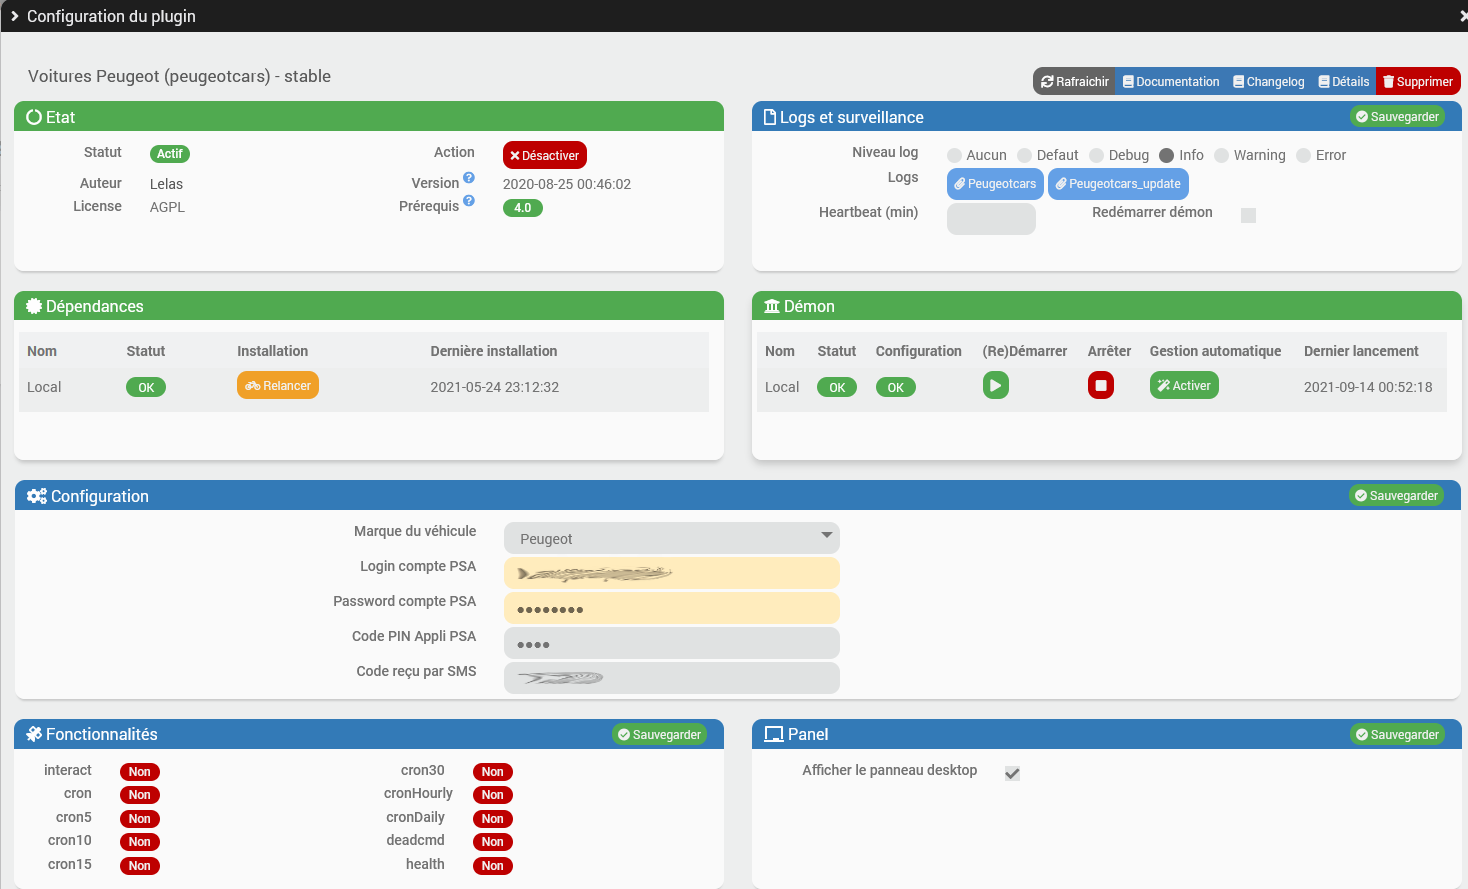
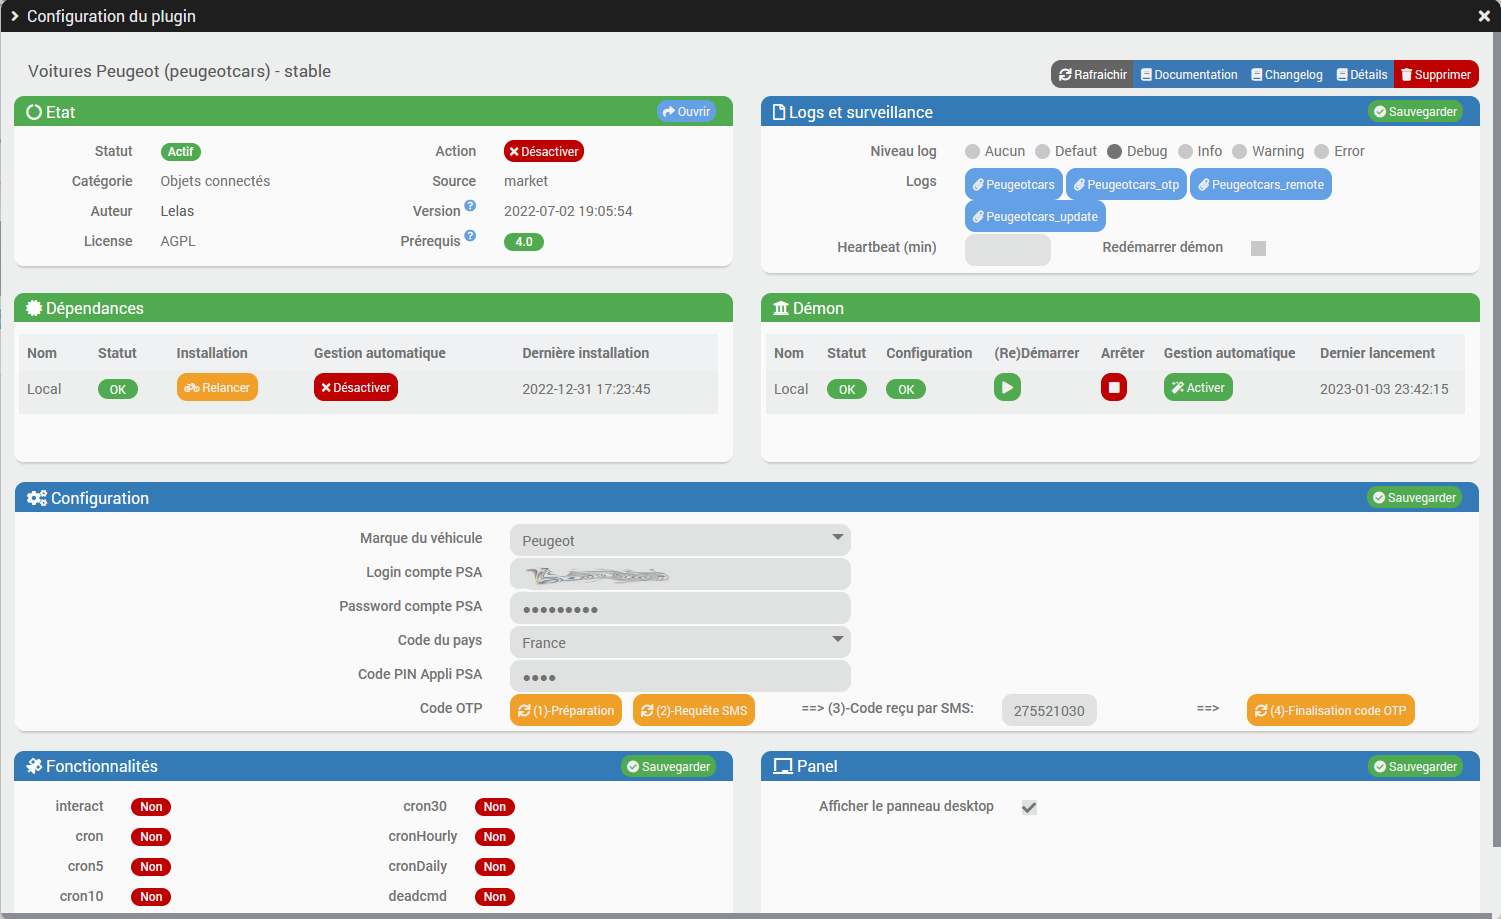
Mise à jour driver psa_car_controller (V2022-12)

Changed region(s): [[0.0, 0.0, 1.0, 1.0], [0.0, 0.0, 0.1533, 0.0304]]

diff --git a/desktop/js/panel.js b/desktop/js/panel.js
@@ -686,7 +686,7 @@ function trips_stats(stat_data) {
           formatter: function () {
               return this.points.reduce(function (s, point) {
                   var hdr  = '<br/><span style="color:'+ point.series.color +';font-size:14px"><b>' + point.series.name + ': </b></span>';
-                  var data = '<span style="font-size:14px">'+point.y + ' km</span>';
+                  var data = '<span style="font-size:14px">'+Math.round(point.y * 10) / 10 + ' km</span>';
                   return (s + hdr + data);
               }, '<span style="font-size:16px"><b>'+this.x+'</b></span>');
           }
@@ -721,7 +721,7 @@ function trips_stats(stat_data) {
           formatter: function () {
               return this.points.reduce(function (s, point) {
                   var hdr  = '<br/><span style="color:'+ point.series.color +';font-size:14px"><b>' + point.series.name + ': </b></span>';
-                  var data = '<span style="font-size:14px">'+point.y + ' kWh/100 km</span>';
+                  var data = '<span style="font-size:14px">'+Math.round(point.y * 10) / 10 + ' kWh/100 km</span>';
                   return (s + hdr + data);
               }, '<span style="font-size:16px"><b>'+this.x+'</b></span>');
           }
@@ -757,7 +757,7 @@ function trips_stats(stat_data) {
           formatter: function () {
               return this.points.reduce(function (s, point) {
                   var hdr  = '<br/><span style="color:'+ point.series.color +';font-size:14px"><b>' + point.series.name + ': </b></span>';
-                  var data = '<span style="font-size:14px">'+point.y + ' kWh / ' + Math.round(10*point.y*kwh_to_cost)/10 + ' €</span>';
+                  var data = '<span style="font-size:14px">'+Math.round(point.y * 10) / 10 + ' kWh / ' + Math.round(10*point.y*kwh_to_cost)/10 + ' €</span>';
                   return (s + hdr + data);
               }, '<span style="font-size:16px"><b>'+this.x+'</b></span>');
           }

diff --git a/core/ajax/peugeotcars.ajax.php b/core/ajax/peugeotcars.ajax.php
@@ -566,6 +566,13 @@ function otp_prepare ()
   $country= config::byKey('country', 'peugeotcars');
   log::add('peugeotcars', 'debug', 'Ajax:Params:'.$mail."/".$passwd."/".$brandid."/".$country);
 
+  // Arret de l'appli de config OTP (si jamais elle est active)
+  log::add('peugeotcars', 'info', 'Stopping OTP manager');
+  if (count(system::ps('3rdparty/psa_jeedom_daemon/jeedom_otp.py')) > 0) {
+    system::kill('3rdparty/psa_jeedom_daemon/jeedom_otp.py', false);
+  }
+  sleep(10);
+  
   // Lancement de l'appli de configuration OTP
   $cmd  = 'sudo /usr/bin/python3 ' . dirname(__FILE__) . '/../../3rdparty/psa_jeedom_daemon/jeedom_otp.py';
   $cmd .= ' --web-conf ';
@@ -579,9 +586,9 @@ function otp_prepare ()
   log::add('peugeotcars', 'debug', $cmd);
   shell_exec($cmd);
   
-  // Attente 15 s
-  log::add('peugeotcars', 'info', 'Attente 45 s');
-  sleep(45);
+  // Attente 60 s
+  log::add('peugeotcars', 'info', 'Attente 60 s');
+  sleep(60);
 
   // Envoi de la commande vers l'appli de config OTP: Attente retour de lancement de l'appli de config OTP
   log::add('peugeotcars', 'info', 'Envoi commande de synchro');

diff --git a/3rdparty/psa_jeedom_daemon/psa_car_controller/psa/RemoteClient.py b/3rdparty/psa_jeedom_daemon/psa_car_controller/psa/RemoteClient.py
@@ -109,7 +109,7 @@ class RemoteClient:
         if charge_info is not None and (charge_info.get('remaining_time', 0) != 0 or charge_info.get('rate', 0) != 0):
             try:
                 car = self.vehicles_list.get_car_by_vin(vin=vin)
-                if car and car.status.get_energy('Electric').charging.status != INPROGRESS:
+                if car and (car.status != None) and car.status.get_energy('Electric').charging.status != INPROGRESS:
                     # fix a psa server bug where charge beginning without status api being properly updated
                     logger.warning("charge begin but API isn't updated")
                     time.sleep(60)

diff --git a/doc/fr_FR/documentation.md b/doc/fr_FR/documentation.md
@@ -43,13 +43,22 @@ Par source Github:
 
 Sur la page configuration du plugin, réaliser les opérations suivantes dans l'ordre indiqué:
 * Sélectionner la marque de votre véhicule PSA (Peugeot, Citroën, Citroën-DS, Opel, Vauxhall)
-* Saisir vos identifiants de compte MyPeugeot (Login + Password), puis Sauvegarder la section Configuration
+* Saisir vos identifiants de compte MyPeugeot (Login + Password)
+* Saisir le code du pays (France, ...)
+* Saisir le code PIN utilisé sur l'appli. PSA sur téléphone
+* Puis Sauvegarder la section Configuration
 * Dans la section Démon, désactiver la "Gestion automatique". (elle pourra être réactivée ultérieurement, après une activation fonctionnelle)
 * Lancer l'installation des dépendances du plugin. (Attention, cette opération peut être assez longue: ~15 mn sur un Raspberry PI)
-  * Il est possible de suivre cette phase dans le log dédié: "peugeotcars_update"
-* Lorsque cette installation des dépendances est terminée, une requête d'authentification est lancée sur le site PSA, et vous devrez recevoir un code par SMS de STELLANTIS
-  * Ce SMS est envoyé au téléphone associé au compte PSA identifié par le login.
-* Lorsque le SMS est reçu, saisissez ce code SMS, et le code PIN de l'application téléphone PSA dans les 2 champs correspondants, puis Sauvegarder à nouveau la section Configuration
+  * Remarque: Il est possible de suivre cette phase dans le log dédié: "peugeotcars_update"
+  * Remarque: La requète du SMS n'est plus fait dans l'installation des dépendances
+
+* Lorsque cette installation des dépendances est terminée, démarrer la phase d'obtention du code OTP.
+  * Lancer l'étape (1) - Préparation (durée entre 1 et 2 mn). On doit obtenir le message "Préparation code OTP correcte"
+  * Lancer l'étape (2) - Requête SMS (rapide). On doit obtenir le message "Requête pour le SMS envoyée", et on doit recevoir un code par SMS.
+  * Saisir le code reçu dans le champ suivant (3), et Sauvegarder la section Configuration
+  * Lancer l'étape (4) - FInalisation code OTP (rapide). On doit obtenir le message "Génération du code OTP réussie"
+  * Remarque: Il est possible de suivre cette phase dans le log dédié: "peugeotcars_otp"
+  
 * cochez la case :"Afficher le panneau desktop", puis Sauvegarder la section Panel. Cela donne accès à la page du "panel" de l'équipement.
 * Démarrez le "Démon" en cliquant sur la flèche verte de la section Démon, le statut doit passer à OK (en vert)
 

diff --git a/doc/fr_FR/changelog.md b/doc/fr_FR/changelog.md
@@ -1,5 +1,11 @@
 # Changelog plugin PeugeotCars
 
+## 04/01/2023: Tag pgc_v0.9
+
+- Mise à jour de la part "Remote" du plugin, avec nouvelle version de l'authentification
+- Ajout d'un log dédié "Obtention du code OTP"
+- Séparation du log "plugin" et de la fonction "remote"
+
 ## 15/09/2021: Tag pgc_v0.8
 
 - Ajout des autres véhicules du groupe PSA. (Citroën, Citroën-DS, Opel, Vauxhall)
